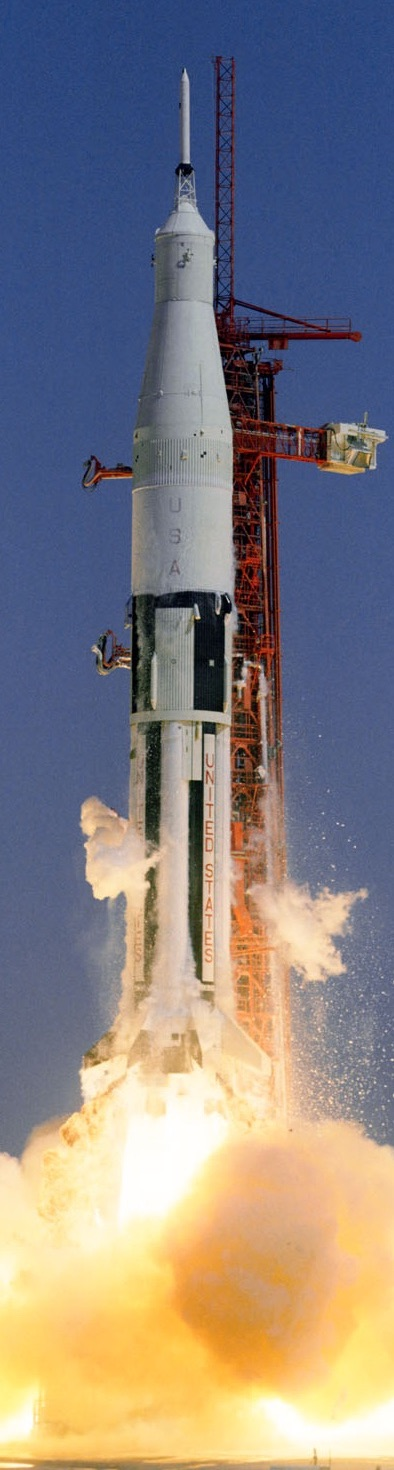
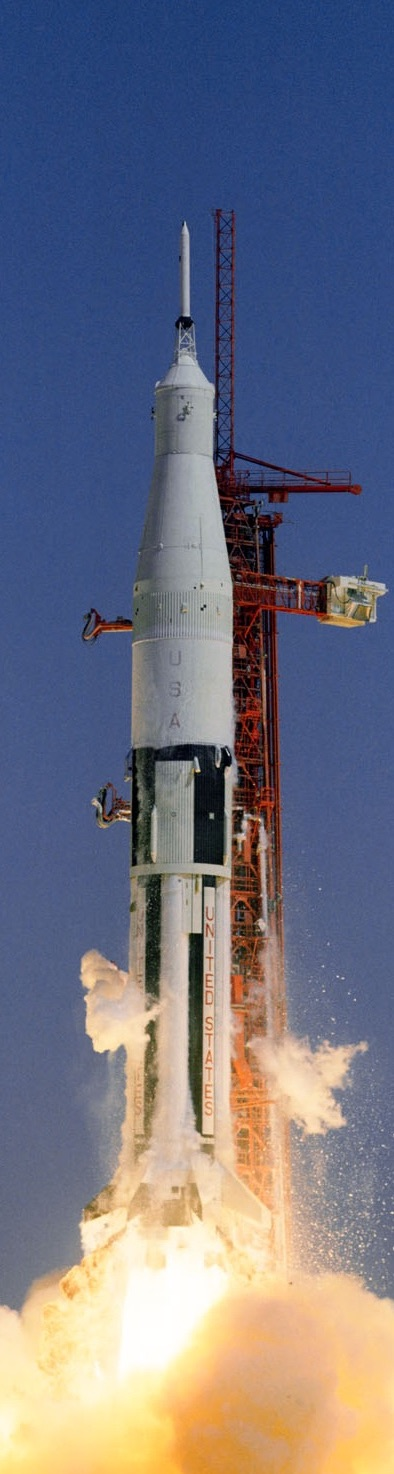
update image

diff --git a/about.php b/about.php
@@ -62,7 +62,7 @@
 <p>* Website: <a href='http://tylertate.github.io/semantic.gs/'>http://tylertate.github.io/semantic.gs/</a></p>
 </article>
 </div>
-<div id='sidebar'><article class="article1"><img src='img/blastoff.jpg' alt='Rocket launch' width='100%'/></article></div>
+<div id='sidebar'><article class="article1"><img src='img/blastoff.jpg' alt='Rocket launch' width='275px;'/></article></div>
 </div>
 
 <div id='footer'>
